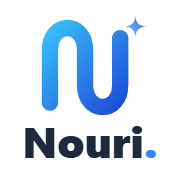
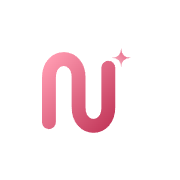
feat: nova ikona appky podle aktualniho loga, animovana loading obrazovka
- vygenerovany nove PWA ikony (192/512/maskable/apple-touch/favicon)
  presne podle soucasneho gradientoveho loga - stare byly z doby
  pred redesignem (modra barva misto rose)
- pridana maskable varianta ikony s bezpecnou zonou pro Android
- opraven rozbity odkaz na neexistujici vite.svg v index.html,
  favicon.png ted skutecne zapojen
- loading obrazovka (App.tsx) ma misto obecneho spinneru animovane
  logo - krivka se "kresli" v nekonecne smycce a postupne se tak
  vybarvuje gradientem, jiskricka pulzuje

Changed region(s): [[0.1389, 0.0833, 0.8889, 0.8889]]

diff --git a/src/components/Logo.tsx b/src/components/Logo.tsx
@@ -1,5 +1,12 @@
 
-export const LogoIcon = ({ className = "w-8 h-8" }) => (
+interface LogoIconProps {
+  className?: string;
+  /** Křivka se "kreslí" (stroke-dashoffset smyčka) a jiskřička pulzuje — pro loading obrazovku
+   *  v App.tsx, ne pro běžné statické použití v hlavičce/onboardingu. */
+  animated?: boolean;
+}
+
+export const LogoIcon = ({ className = "w-8 h-8", animated = false }: LogoIconProps) => (
   <svg
     viewBox="0 0 100 100"
     xmlns="http://www.w3.org/2000/svg"
@@ -22,10 +29,12 @@ export const LogoIcon = ({ className = "w-8 h-8" }) => (
       strokeWidth="14"
       strokeLinecap="round"
       strokeLinejoin="round"
+      {...(animated ? { pathLength: 1, className: "animate-logo-draw" } : {})}
     />
     <path
       d="M 88 5 Q 88 15 98 15 Q 88 15 88 25 Q 88 15 78 15 Q 88 15 88 5 Z"
       fill="url(#starGrad)"
+      className={animated ? "animate-pulse" : undefined}
     />
   </svg>
 );

diff --git a/src/index.css b/src/index.css
@@ -18,6 +18,29 @@
   .font-display {
     font-family: Georgia, "Iowan Old Style", "Palatino Linotype", "Book Antiqua", serif;
   }
+  /* Loading obrazovka (App.tsx) — logo se "kreslí" v nekonečné smyčce, dokud appka čeká na
+   * Firebase auth. pathLength="1" na <path> normalizuje délku křivky, takže dasharray/offset
+   * fungují bez ohledu na skutečnou geometrii cesty. */
+  .animate-logo-draw {
+    stroke-dasharray: 1;
+    stroke-dashoffset: 1;
+    animation: nouri-logo-draw 1.1s ease-in-out infinite;
+  }
+}
+
+@keyframes nouri-logo-draw {
+  0% {
+    stroke-dashoffset: 1;
+  }
+  55% {
+    stroke-dashoffset: 0;
+  }
+  85% {
+    stroke-dashoffset: 0;
+  }
+  100% {
+    stroke-dashoffset: 1;
+  }
 }
 
 :root {

diff --git a/src/App.tsx b/src/App.tsx
@@ -1,5 +1,5 @@
 import { useEffect, useRef, useState } from "react";
-import { LogoHorizontal } from "./components/Logo";
+import { LogoHorizontal, LogoIcon } from "./components/Logo";
 import BottomNav, { type NavTab } from "./components/BottomNav";
 import AddMealModal from "./components/AddMealModal";
 import QuickLookupModal from "./components/QuickLookupModal";
@@ -78,7 +78,7 @@ export default function App() {
   if (loading) {
     return (
       <div className="h-dvh flex items-center justify-center bg-slate-50 dark:bg-slate-950">
-        <div className="animate-spin rounded-full h-8 w-8 border-b-2 border-rose-600"></div>
+        <LogoIcon className="w-16 h-16" animated />
       </div>
     );
   }

diff --git a/vite.config.ts b/vite.config.ts
@@ -12,7 +12,7 @@ export default defineConfig({
     VitePWA({
       registerType: "prompt",
       injectRegister: false,
-      includeAssets: ["apple-touch-icon.png"],
+      includeAssets: ["apple-touch-icon.png", "favicon.png"],
       manifest: {
         name: "Nouri",
         short_name: "Nouri",
@@ -31,6 +31,12 @@ export default defineConfig({
             src: "/pwa-512.png",
             sizes: "512x512",
             type: "image/png",
+          },
+          {
+            src: "/pwa-maskable-512.png",
+            sizes: "512x512",
+            type: "image/png",
+            purpose: "maskable",
           },
         ],
         shortcuts: [

diff --git a/index.html b/index.html
@@ -2,7 +2,8 @@
 <html lang="en">
   <head>
     <meta charset="UTF-8" />
-    <link rel="icon" type="image/svg+xml" href="/vite.svg" />
+    <link rel="icon" type="image/png" href="/favicon.png" />
+    <link rel="apple-touch-icon" href="/apple-touch-icon.png" />
     <meta name="viewport" content="width=device-width, initial-scale=1.0" />
     <title>nouri</title>
   </head>
